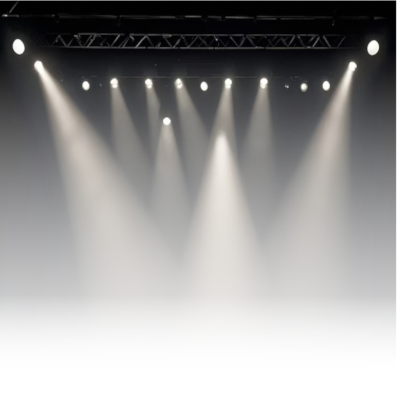
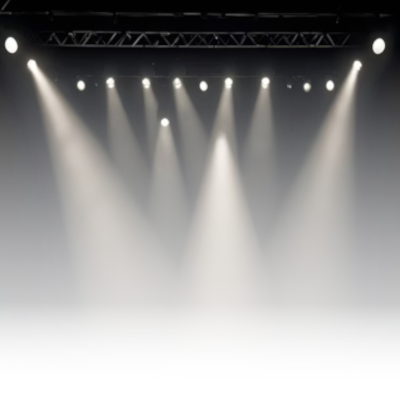
ajustes

diff --git a/src/components/whoIsPoke/WhoIsPoke.vue b/src/components/whoIsPoke/WhoIsPoke.vue
@@ -43,14 +43,17 @@ async function refresh() {
     <section class="conteiner">
         <div class="podiumConteiner">
             <div class="podiumContent" :style="{
-                background: response?`url('/src/assets/images/podiumOn.png')`:`url('/src/assets/images/podium.png')`
+                background: `url('/src/assets/images/podium.png')`
             }">
                 <div class="pokeImg" :style="{
                     background:`url(https://www.pokemon.com/static-assets/content-assets/cms2/img/pokedex/detail/${atual.id}.png)`,
-                    filter: response? 'none' : 'contrast(0%) brightness(0.1)'
+                    filter: response? 'none' : 'contrast(0%) brightness(0.60)'
                 }"></div>
                 <button v-if="response" class="showPokeBtn">Ver Pokemon</button>
                 <button :class="`refreshBtn ${reload?'loading':''}`" @click="refresh"><img class="refreshIcon" src="/src/assets/images/icons/refreshIcon.svg" alt=""></button>
+                <div :class="`lightsPodium ${response?'on': 'off'}`" :style="{
+                    background:`url('/src/assets/images/lightsPodium.png')`
+                }"></div>
             </div>
         </div>
         <div class="infosConteiner">

diff --git a/src/components/whoIsPoke/styles.scss b/src/components/whoIsPoke/styles.scss
@@ -23,7 +23,22 @@
     width: 400px;
     height: 400px;
     border-radius: 10px ;
+    overflow: hidden;
     position: relative;
+}
+.lightsPodium {
+    width: 400px;
+    height: 400px;
+    transition:all 600ms;
+    position: absolute;
+    left: 0;
+    top:-100%
+}
+.on {
+    transform: translateY(100%);
+}
+.off {
+    transform: translateY(-100%);
 }
 .pokeImg {
     width: 215px;
@@ -31,7 +46,8 @@
     position: absolute;
     left: 50%;
     top: 50%;
-    transform: translate(-50%, -40%);
+    transform: translate(-40%, -30%);
+    z-index: 3;
 }
 .infosContent {
     display: flex;
@@ -53,7 +69,7 @@
 .showPokeBtn {
     position: absolute;
     left: 50%;
-    bottom: 10%;
+    bottom: 5%;
     transform: translateX(-50%);
     background-color: var(--true-red);
     &:hover {
